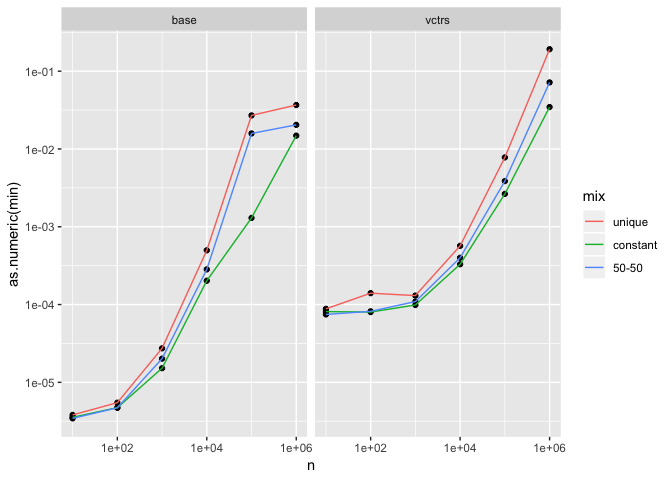
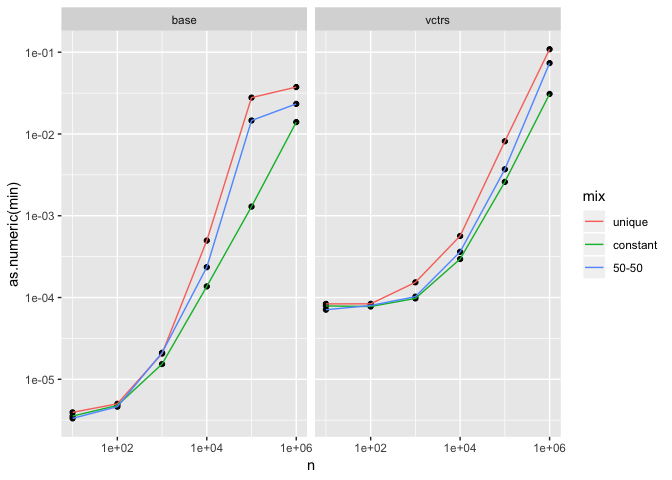
Include comparison with raw c code
Basically no performance difference :)

diff --git a/bench/dictionary.md b/bench/dictionary.md
@@ -116,3 +116,61 @@ Clearly there’s some larger setup cost needed for vctrs dictionary, and
 the performance difference declines as size increases.
 
 ![](dictionary_files/figure-gfm/unnamed-chunk-6-1.png)<!-- -->
+
+## Raw C code
+
+If we just call the C function that underlies `vec_unique()`,
+(i.e. ignoring the code that makes these functions generic), we see
+basically no performance difference:
+
+``` r
+df <- bench::press(
+  type = c("integer", "double", "character"),
+  n = c(1e1, 1e2, 1e3, 1e4, 1e5, 1e6),
+  {
+    x <- make_vec(type, n, "unique")
+    bench::mark(
+      base = unique(x),
+      vctrs = .Call(vctrs:::vctrs_unique_loc, x),
+      min_time = 0.05,
+      max_iterations = 20,
+      check = FALSE
+    )
+  }
+)
+#>  Running with:
+#>     type            n
+#>   1 integer        10
+#>   2 double         10
+#>   3 character      10
+#>   4 integer       100
+#>   5 double        100
+#>   6 character     100
+#>   7 integer      1000
+#>   8 double       1000
+#>   9 character    1000
+#>  10 integer     10000
+#>  11 double      10000
+#>  12 character   10000
+#>  13 integer    100000
+#>  14 double     100000
+#>  15 character  100000
+#>  16 integer   1000000
+#>  Warning: Some expressions had a GC in every iteration; so filtering is
+#>  disabled.
+#>  17 double    1000000
+#>  Warning: Some expressions had a GC in every iteration; so filtering is
+#>  disabled.
+#>  18 character 1000000
+#>  Warning: Some expressions had a GC in every iteration; so filtering is
+#>  disabled.
+
+ggplot(df, aes(n, as.numeric(min))) + 
+  geom_point() + 
+  geom_line(aes(colour = expression)) + 
+  scale_x_log10() + 
+  scale_y_log10() + 
+  facet_wrap(~ type)
+```
+
+![](dictionary_files/figure-gfm/unnamed-chunk-7-1.png)<!-- -->
